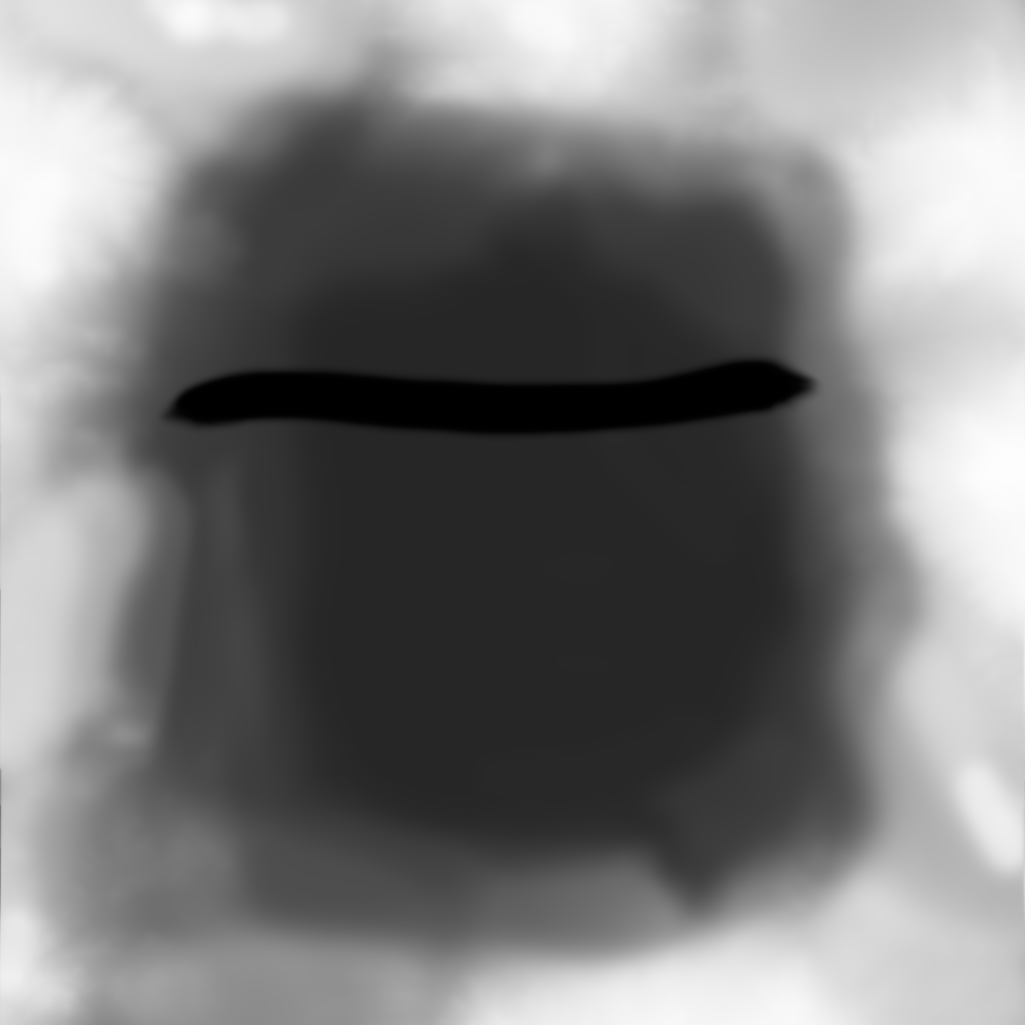
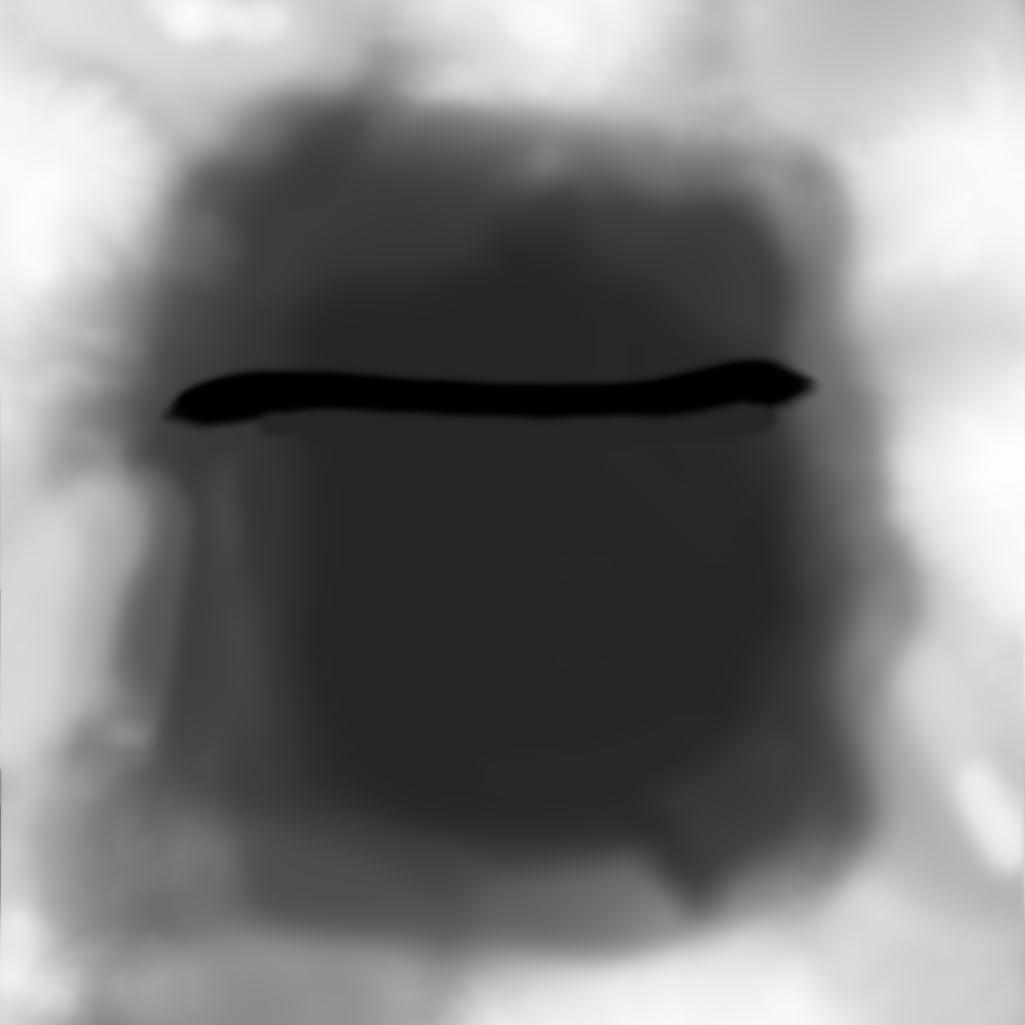
mas modelos

Changed region(s): [[0.281, 0.3746, 0.6868, 0.4371], [0.6868, 0.3746, 0.7493, 0.4059]]

diff --git a/GCI Plantilla1.0/Scene.h b/GCI Plantilla1.0/Scene.h
@@ -84,9 +84,13 @@ private:
 	GameObject* Object3d;
 	GameObject* Object3d1;
 	GameObject* Object3d2;
-	GameObject* Cabana;
 	GameObject* Hongo;
 	GameObject* Arco;
+	GameObject* Puente;
+	GameObject* Cabin;
+	GameObject* Honguito1;
+	GameObject* Honguito2;
+	GameObject* Honguito3;
 
 	//Variables de Movimiento (Traslacion)
 	float speedAxisX;
